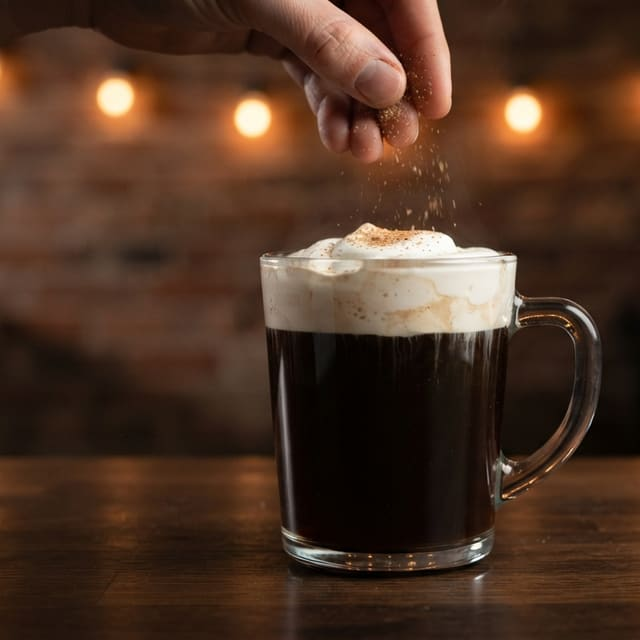
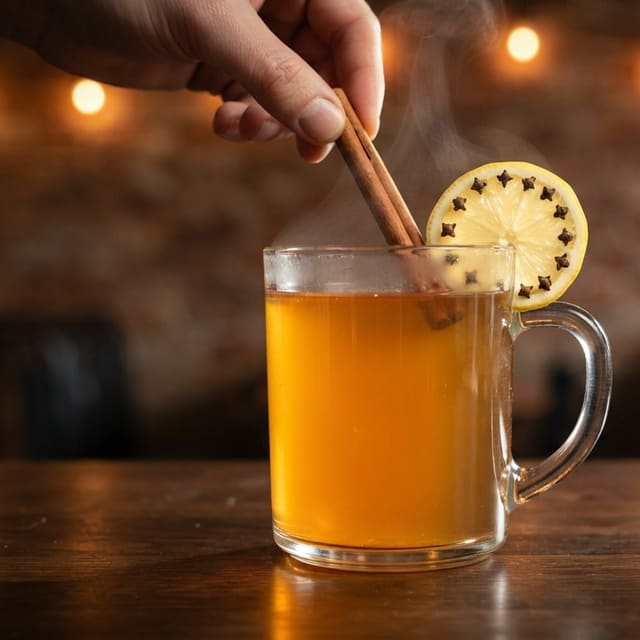
fix: swap corrected Eggnog/Hot Toddy images; lock mobile home layout
- Swapped in the corrected Eggnog and Hot Toddy cocktail photos (were
  mixed up - Eggnog now shows the creamy nutmeg drink, Hot Toddy the
  amber mug with cinnamon/lemon)
- HomeScreen: BottomNav now renders fixed (position:fixed, always
  visible) instead of inline at the end of a tall scrollable column,
  where it only came into view once scrolled all the way down; content
  gets matching bottom padding so nothing sits behind it. New optional
  `fixed` prop on BottomNav, opt-in per screen - every other screen using
  it is unaffected
- Trimmed top padding above "Today's Hot Picks" and "Quick Access
  Training" (20px -> 12px) to reclaim vertical space
- /mobile route tree now locks pinch-zoom (maximumScale:1,
  userScalable:false) via a scoped viewport export in app/mobile/layout.tsx
  - marketing pages keep normal zoom, only the app shell is locked

diff --git a/app/mobile/_components/HomeScreen.tsx b/app/mobile/_components/HomeScreen.tsx
@@ -91,7 +91,6 @@ export default function HomeScreen() {
       style={{
         display: "flex",
         flexDirection: "column",
-        justifyContent: "space-between",
         width: "100%",
         maxWidth: 390,
         margin: "0 auto",
@@ -100,7 +99,22 @@ export default function HomeScreen() {
         fontFamily: "var(--font-body)",
       }}
     >
-      <div style={{ display: "flex", flexDirection: "column", width: "100%" }}>
+      {/* Fix-locked bottom nav (2026-08-25): BottomNav now renders fixed
+          (see BottomNav.tsx) instead of inline at the end of this column, so
+          it's always visible instead of only appearing once scrolled to the
+          bottom. This wrapper reserves the same 84px (64px tab row + 20px
+          indicator strip — see AiCoachWidget.tsx's WIDGET_BOTTOM, the
+          existing source of that number) + safe-area space as padding so
+          the fixed nav never overlaps Quick Access Training, the last
+          section. */}
+      <div
+        style={{
+          display: "flex",
+          flexDirection: "column",
+          width: "100%",
+          paddingBottom: "calc(84px + env(safe-area-inset-bottom, 0px))",
+        }}
+      >
         {/* hero-header */}
         <div
           style={{
@@ -224,8 +238,10 @@ export default function HomeScreen() {
           )}
         </div>
 
-        {/* todays-picks-section */}
-        <div style={{ display: "flex", flexDirection: "column", gap: 12, padding: 20 }}>
+        {/* todays-picks-section — top padding trimmed 20->12 (2026-08-25
+            bottom-nav fix pass) to reclaim vertical space now that the
+            fixed nav needs 84px+ reserved below Quick Access Training. */}
+        <div style={{ display: "flex", flexDirection: "column", gap: 12, padding: "12px 20px 20px" }}>
           <div style={{ display: "flex", alignItems: "center", justifyContent: "space-between" }}>
             <p style={{ margin: 0, fontSize: 16, fontWeight: 700, color: "var(--text-mobile)" }}>Today&apos;s Hot Picks</p>
             {/* Real brand mark — same asset/pattern as components/Navbar.tsx's
@@ -333,8 +349,9 @@ export default function HomeScreen() {
           </Link>
         </div>
 
-        {/* quick-access-section */}
-        <div style={{ display: "flex", flexDirection: "column", gap: 12, padding: 20 }}>
+        {/* quick-access-section — top padding trimmed 20->12, same rationale
+            as todays-picks-section above. */}
+        <div style={{ display: "flex", flexDirection: "column", gap: 12, padding: "12px 20px 20px" }}>
           <p style={{ margin: 0, fontSize: 16, fontWeight: 700, color: "var(--text-mobile)" }}>Quick Access Training</p>
           <div style={{ display: "flex", gap: 6 }}>
             {QUICK_ACCESS.map(({ label, icon: Icon, href }) => (
@@ -386,7 +403,7 @@ export default function HomeScreen() {
         </div>
       </div>
 
-      <BottomNav active="home" />
+      <BottomNav active="home" fixed />
     </div>
   );
 }

diff --git a/app/mobile/_components/BottomNav.tsx b/app/mobile/_components/BottomNav.tsx
@@ -21,14 +21,32 @@ const TABS: { id: MobileNavTab; label: string; icon: typeof Home; href: string }
   { id: "me", label: "Me", icon: User, href: "/mobile/progress" },
 ];
 
-export default function BottomNav({ active }: { active: MobileNavTab }) {
+// Fix-locked bottom nav (2026-08-25): Home's content could run taller than
+// the viewport, and since this nav rendered inline at the end of that
+// column (not fixed), it only came into view once the user scrolled all
+// the way down — it should behave like a normal app tab bar, always
+// visible. `fixed` is opt-in per screen (only HomeScreen passes it for
+// now) rather than a global behavior change, so every other screen using
+// this component keeps its current inline layout untouched.
+export default function BottomNav({ active, fixed }: { active: MobileNavTab; fixed?: boolean }) {
   return (
     <nav
       style={{
         width: "100%",
+        maxWidth: fixed ? 390 : undefined,
         flexShrink: 0,
         background: "var(--surface-mobile)",
         borderTop: "1px solid var(--border-mobile)",
+        ...(fixed
+          ? {
+              position: "fixed" as const,
+              left: "50%",
+              transform: "translateX(-50%)",
+              bottom: 0,
+              zIndex: 50,
+              paddingBottom: "env(safe-area-inset-bottom, 0px)",
+            }
+          : {}),
       }}
     >
       <div

diff --git a/app/mobile/layout.tsx b/app/mobile/layout.tsx
@@ -1,3 +1,4 @@
+import type { Viewport } from "next";
 import { redirect } from "next/navigation";
 import { createSupabaseServerClient } from "@/lib/supabase-server";
 import { createSupabaseAdminClient } from "@/lib/supabase-admin";
@@ -14,6 +15,22 @@ import { TrainingProgressProvider } from "./_lib/training-progress-context";
 // One-device session displacement is enforced in middleware.ts (not here) —
 // see the /mobile addition to that gate.
 export const dynamic = "force-dynamic";
+
+// Fix-locked viewport (2026-08-25) — this app is meant to feel like a
+// native tab app, not a zoomable web page: pinch-to-zoom let the fixed
+// header/nav chrome and the 390px frame drift out of alignment. Scoped to
+// this /mobile segment only (a child layout's `viewport` export fully
+// overrides the root's app/layout.tsx here) rather than site-wide — the
+// public marketing pages keep normal pinch-zoom, which is a real
+// accessibility affordance there (WCAG 1.4.4) that this app-shell tree
+// doesn't need since every screen is already laid out for one fixed frame.
+export const viewport: Viewport = {
+  width: "device-width",
+  initialScale: 1,
+  maximumScale: 1,
+  userScalable: false,
+  viewportFit: "cover",
+};
 
 export default async function MobileLayout({
   children,
